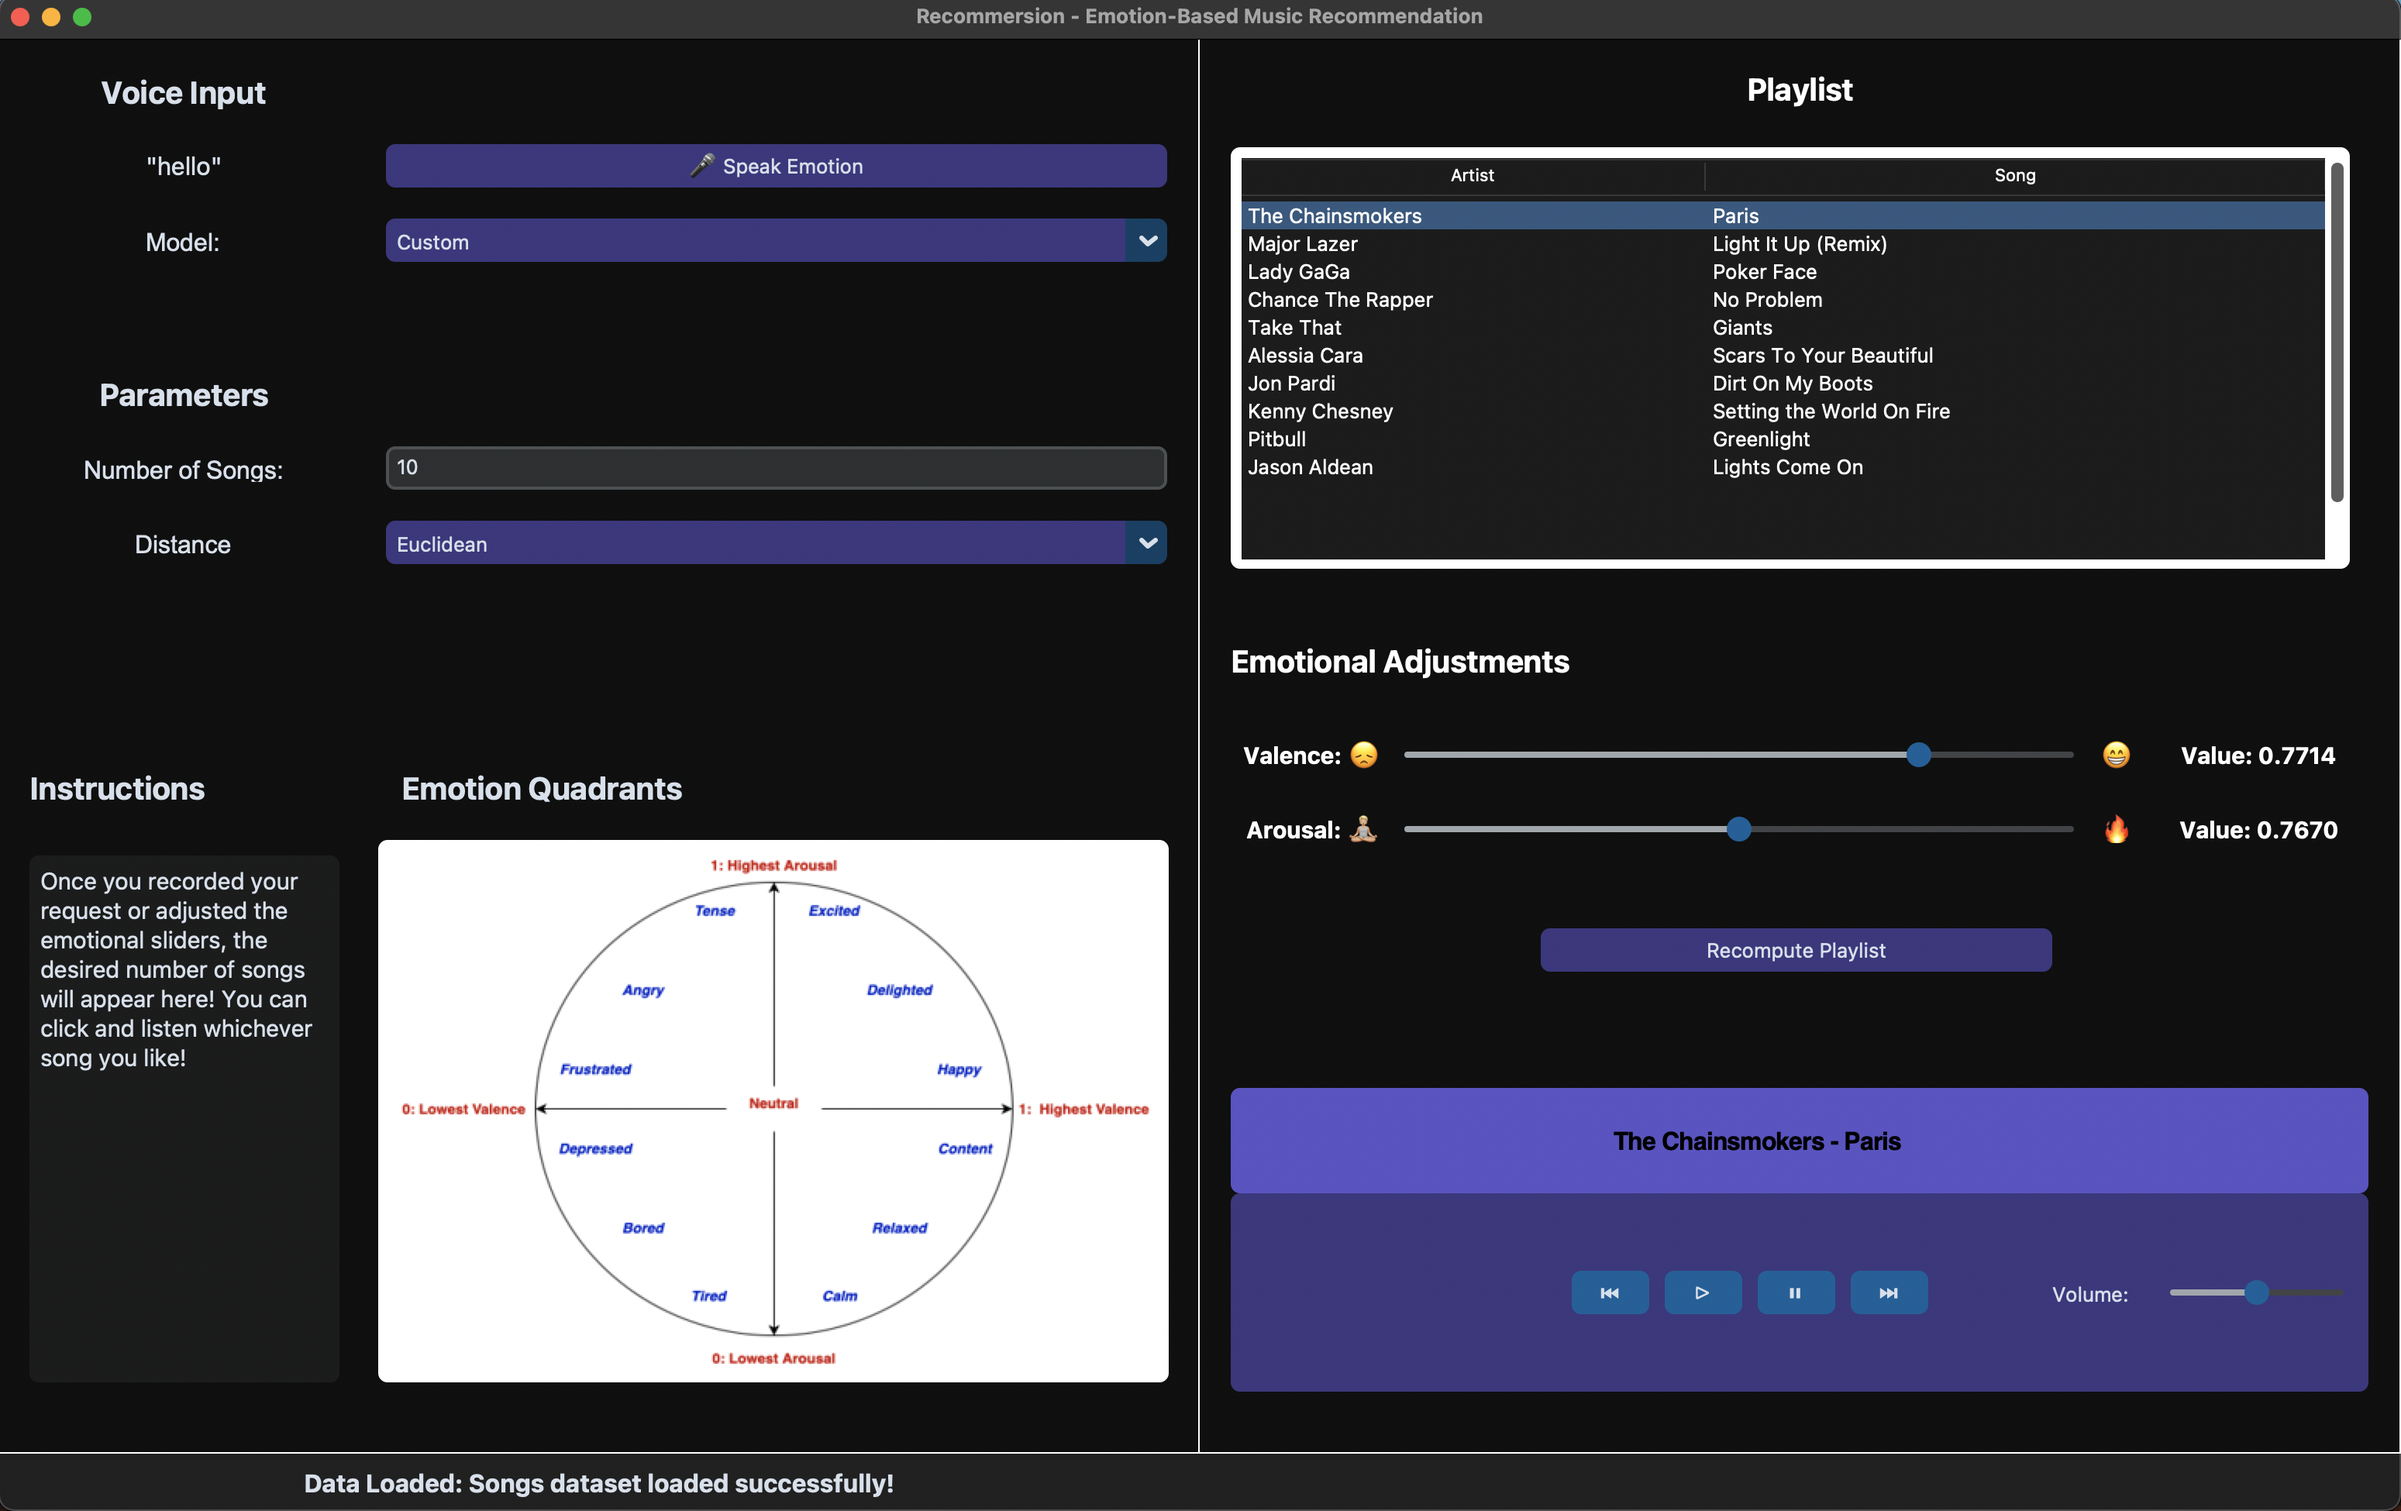
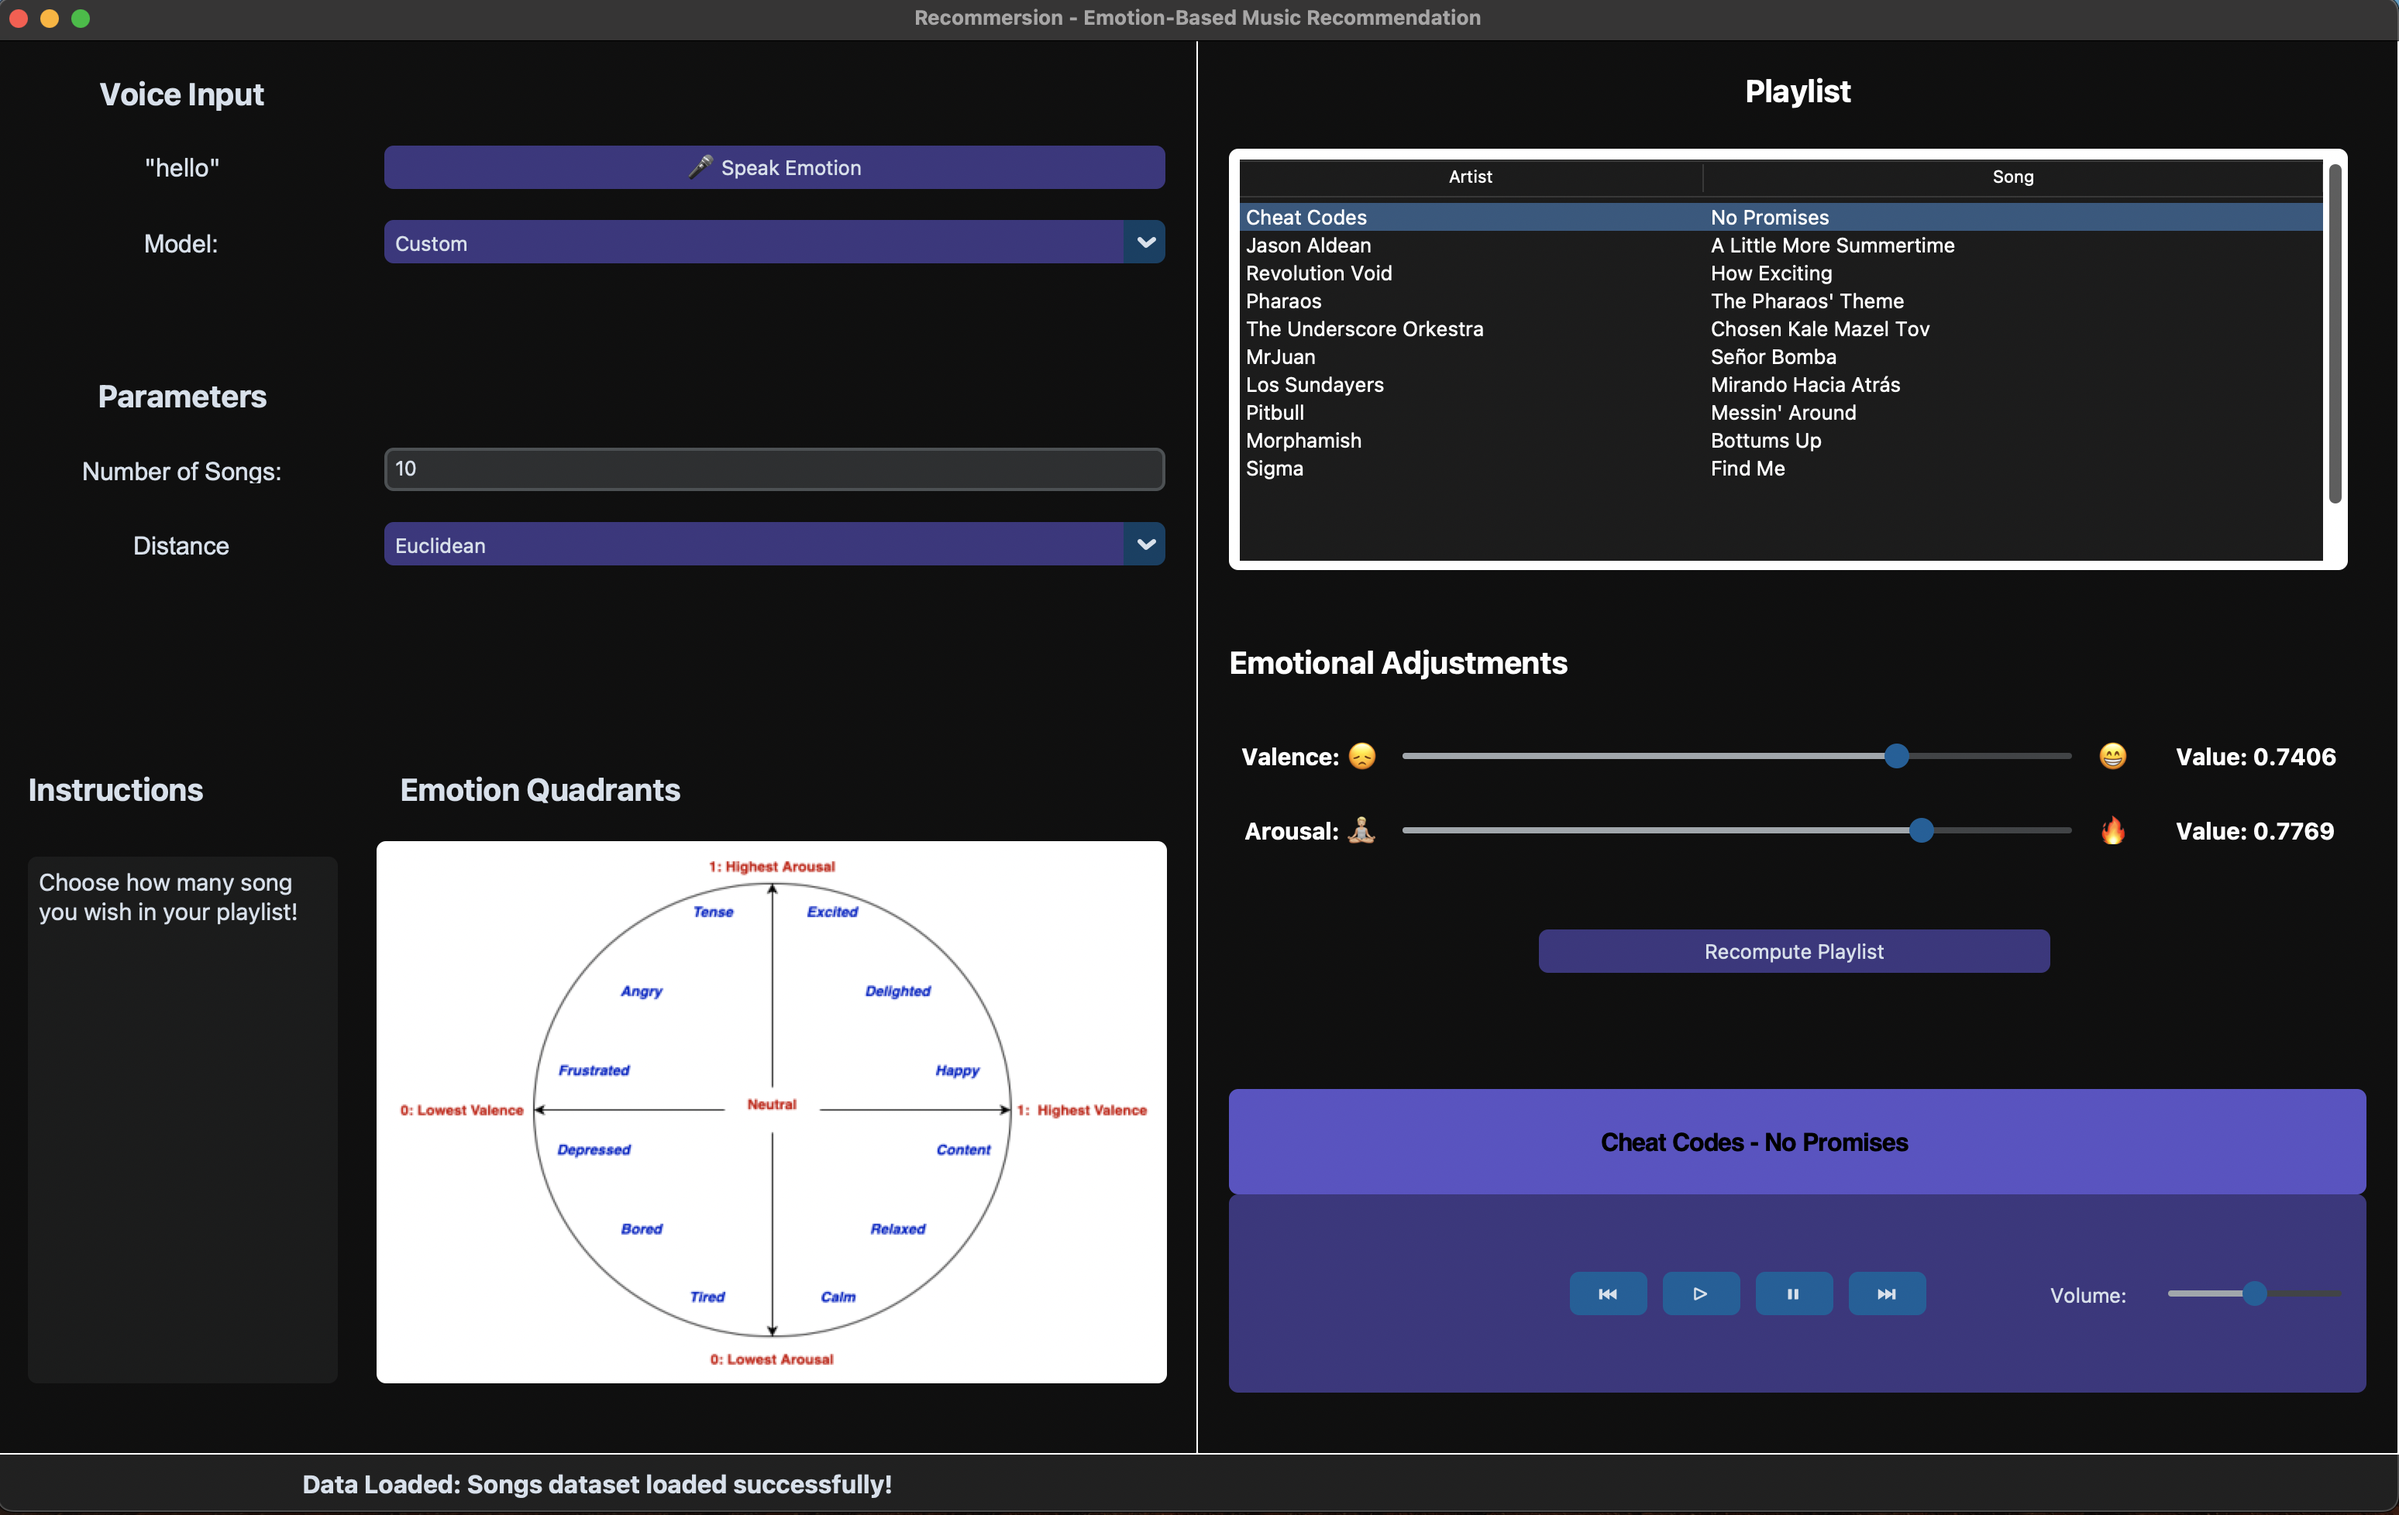
Bug fixed in arousal slider

diff --git a/recommersion.py b/recommersion.py
@@ -375,7 +375,7 @@ class Recommersion(ctk.CTk):
             new_val = dimensional[0] * self.valence_slider.cget("to")
             new_ar = dimensional[1] * self.arousal_slider.cget("to")
             self.after(0, lambda: self.valence_slider.set(new_val))
-            self.after(0, lambda: self.arousal_slider.set())
+            self.after(0, lambda: self.arousal_slider.set(new_ar))
             self.after(0, lambda: self.update_valence_value(new_val))
             self.after(0, lambda: self.update_arousal_value(new_ar))
             print("after setting")
